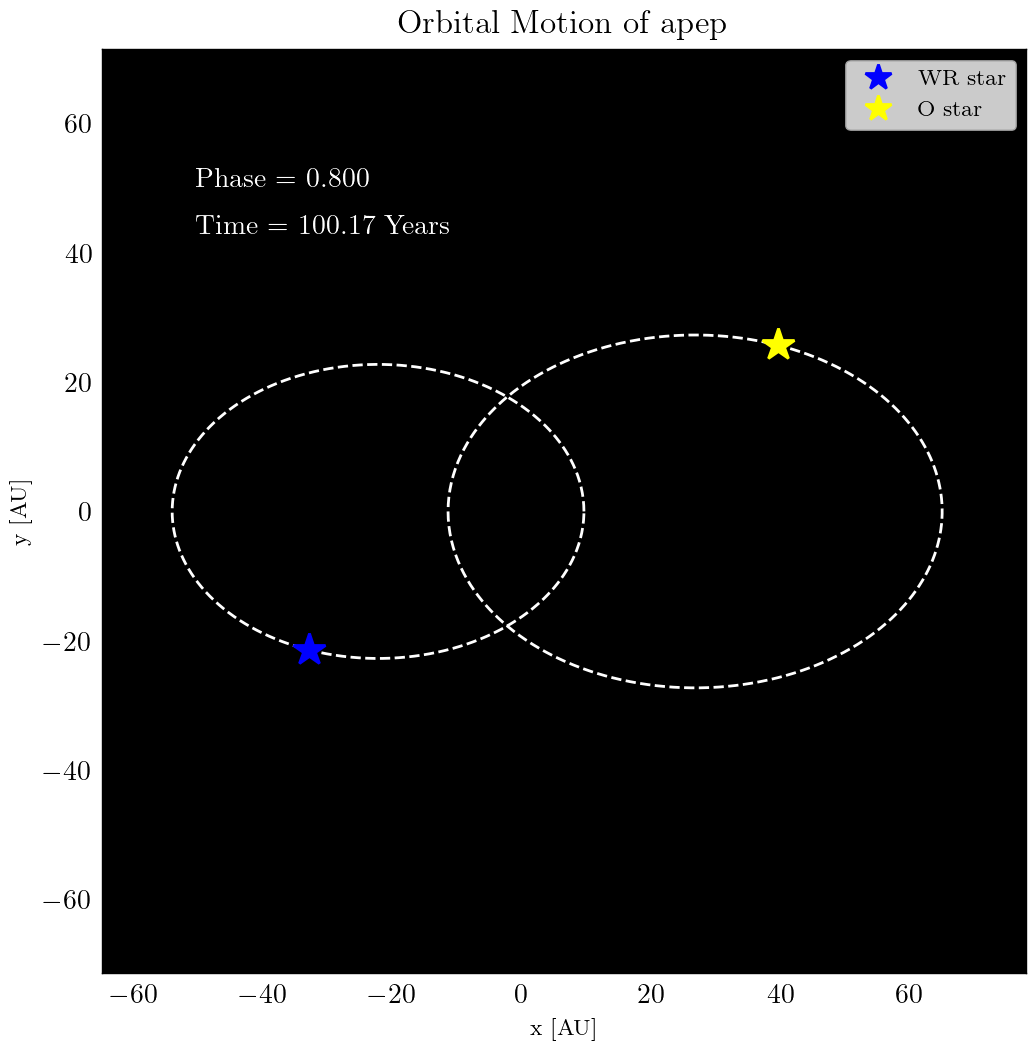
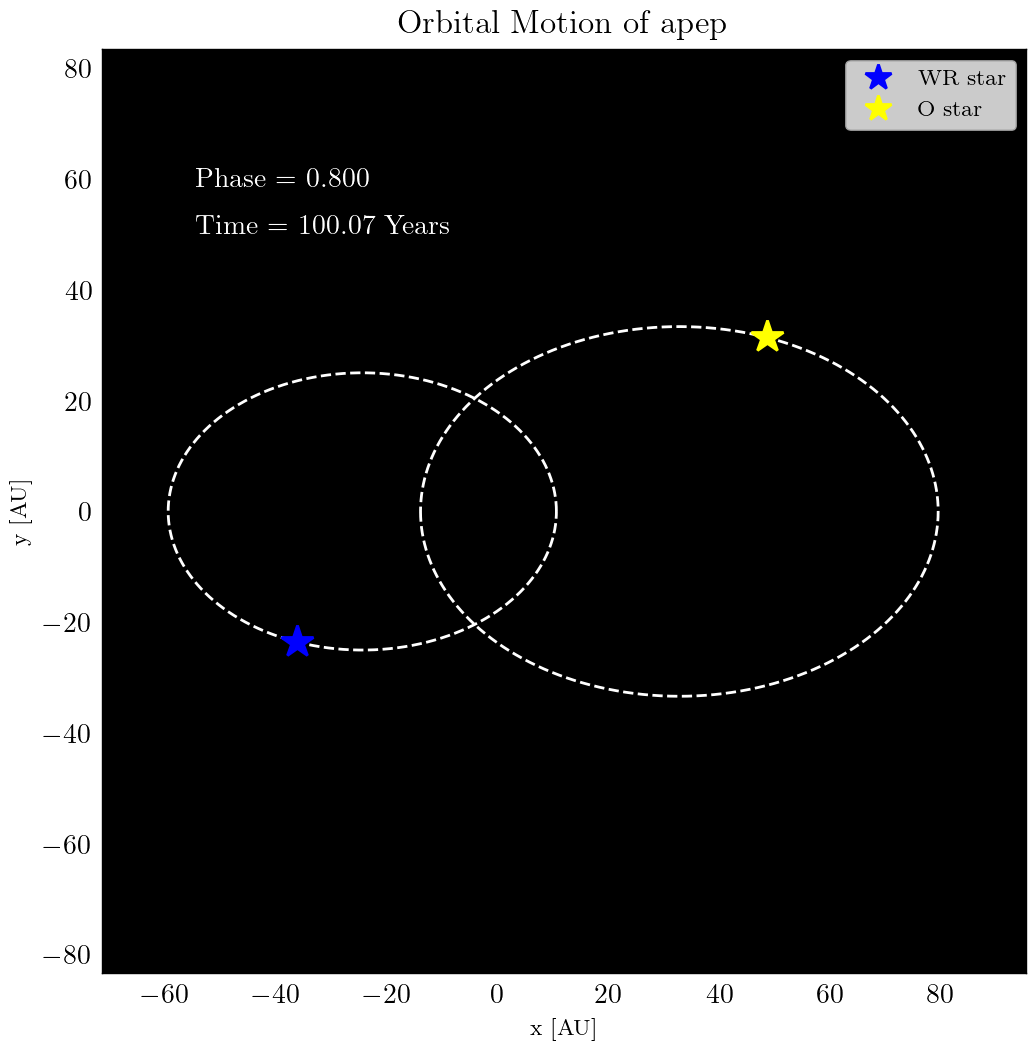
commit before branching

diff --git a/scripts/binary_system_calculations/binary_velocity.py b/scripts/binary_system_calculations/binary_velocity.py
@@ -1,3 +1,8 @@
+# This script calculates the velocities and positions of masses in a stable binary orbit at periastron, 
+# with respect to the centre of mass. 
+# Author: Thomas Jones
+
+
 import matplotlib
 import numpy as np
 import matplotlib.pyplot as plt
@@ -6,7 +11,7 @@ from mpl_toolkits.mplot3d import Axes3D
 from matplotlib.animation import PillowWriter
 from astropy import constants as const
 import astropy.units as u
-from scipy.integrate import odeint, solve_ivp
+from scipy.integrate import odeint
 import math
 import matplotlib
 import argparse
@@ -45,37 +50,50 @@ class BinarySystem:
     AU = const.au.cgs
 
     def __init__(self, e, P, m1, m2, name):
+        # Initialising the class with the input parameters
         self.Ecc = e
         self.Period = P
         self.m1 = m1
         self.m2 = m2
         self.name = name
 
+        # Calculating the periastron velocity and position
         periastron_v_x = self.get_periast_v_x(e, P, m1, m2)
         self.vy1_per, self.vy2_per, self.x1_per, self.x2_per = periastron_v_x
 
+        # Initialising the orbit solution
         init_cond={'m1':m1, 'm2':m2, 
                 'x1':self.x1_per.value, 'y1':0, 
                 'x2':self.x2_per.value, 'y2':0, 
                 'vx1':0, 'vy1':self.vy1_per.value, 
                 'vx2':0, 'vy2':self.vy2_per.value}
-
+        
+        # Solving for the orbit
         self.orb_sol = self.integrate_orbit(k=1, **init_cond)
-
-
 
     @staticmethod
     def get_periast_v_x(e, P, m1, m2):
         """
-        Computes the y component of the velocity of each star in a binary system at periastron 
-        and the distance from each star to the centre of mass of the system (cgs units). 
+        This method computes the y component of the velocity of each star in a binary system at periastron.
+        It also computes the distance from each star to the centre of mass of the system (cgs units).
 
-        - e : eccentricity of the binary system
-        - P : period of the system in days
-        - m1, m2 : masses of stars in units of M_sun
-
+        Parameters
+        ----------
+        e : float
+            Eccentricity of the binary system
+        P : float
+            Period of the system in days
+        m1, m2 : float
+            Masses of stars in units of M_sun
+        
+        Returns
+        -------
+        vy1_per, vy2_per, x1_per, x2_per : float
+            y component of the velocity of each star in a binary system at periastron and 
+            the x-distance from each star to the centre of mass of the system (cgs units).
+        
         """
-        G = const.G.cgs
+
         M_sun = const.M_sun.cgs
 
         Period = P * 24 * 60 * 60 * u.s.cgs # Converting period from days to seconds
@@ -102,14 +120,26 @@ class BinarySystem:
     ########################################################################################
     
     def integrate_orbit(self, k=1, **kwargs):
+        # """
+        # Solves for the periastron velocity and position using the get_periast_v_x() method
+        # and uses this as the initial conditions in order to integrates Newtons equations to
+        # calculate the x,y positions and velocities for each star at closely spaced discrete 
+        # points around the stars orbit. 
+
+        # - k : Number of periods to plot over. Default set to 1.
+        # - **kwargs : keyword arguments for the get_periast_v_x() method
+        # """
         """
         Solves for the periastron velocity and position using the get_periast_v_x() method
         and uses this as the initial conditions in order to integrates Newtons equations to
-        calculate the x,y positions and velocities for each star at closely spaced discrete 
-        points around the stars orbit. 
+        calculate the x,y positions and velocities for each star at closely spaced discrete
+        points around the stars orbit.
 
-        - k : Number of periods to plot over. Default set to 1.
-        - **kwargs : keyword arguments for the get_periast_v_x() method
+        Parameters
+        ----------
+        k : int
+            Number of periods to plot over. Default set to 1.
+        **kwargs : keyword arguments for the get_periast_v_x() method
         """
 
         G = const.G.cgs
@@ -134,7 +164,7 @@ class BinarySystem:
                     G.value*m1/r12**3 *(x1-x2),
                     G.value*m1/r12**3 *(y1-y2)]       
 
-        self.t_array = np.linspace(0, k*self.Period*24*60*60, 1000)
+        self.t_array = np.linspace(0, k*self.Period*24*60*60, 100000)
 
         sol = odeint(dSdt , y0=[x1_0, y1_0, x2_0, y2_0, vx1_0, vy1_0, vx2_0, vy2_0], t=self.t_array)
         sol = sol.T
@@ -162,7 +192,7 @@ class BinarySystem:
         # ax.set_facecolor('k')
         ax.set_xlabel("x (AU)", fontsize=8)
         ax.set_ylabel("y (AU)", fontsize=8)
-        ax.legend(loc="upper right")
+        # ax.legend(loc="upper right")
         plt.savefig(os.path.join(os.path.abspath(os.path.dirname(__file__)),f"orbit_{self.name}.png"), dpi=300)
 
         if make_animation==True:
@@ -177,9 +207,6 @@ class BinarySystem:
                 ylim = np.abs(y2).max()
             
             t_array_yr = self.t_array/(365*24*60*60)
-
-            # phase_array = t_array_yr/self.Period
-
 
 
             def animate(i):
@@ -293,14 +320,15 @@ def main():
     cmdargs = ArgumentInputs()
     binary = BinarySystem(m1=cmdargs.mass1, m2=cmdargs.mass2, P=cmdargs.period, e=cmdargs.eccentricity, name=cmdargs.name)
     
-    headers = ['Quantity', 'Star 1', 'Star 2']
+    headers = ['Parameter', 'Star 1', 'Star 2']
 
     masses = ['Mass [Msun]', f"{binary.m1}", f"{binary.m2}"]
     period = ['Period [days]', f"{binary.Period}",]
+    eccentricity = ['Eccentricity', f"{binary.Ecc}",]
     per_velocities = ['Periastron Vy [cm/s]', f"{binary.vy1_per.value:e}", f"{binary.vy2_per.value:e}"]
     per_positions = ['Periastron X [cm]', f"{binary.x1_per.value:e}", f"{binary.x2_per.value:e}"]
 
-    table_items = [masses, period, per_velocities, per_positions]
+    table_items = [masses,period,eccentricity,per_velocities,per_positions]
     
     if cmdargs.plot:
         if not cmdargs.ani:

diff --git a/scripts/xray-luminosity/wr140-hardxray-with-obs.py b/scripts/xray-luminosity/wr140-hardxray-with-obs.py
@@ -3,7 +3,8 @@ import matplotlib.pyplot as plt
 import os
 from palettable.mycarta import LinearL_5
 import pathlib
-plt.style.use('science')
+plt.style.use('default')
+plt.rcParams['font.family'] = 'sans-serif'
 home = str(pathlib.Path.home())
 import pandas as pd
 
@@ -18,7 +19,7 @@ def main():
             "color": "magenta",
             "dataxmin":-150,
             "dataxmax":135,
-            "lw": 1.5,
+            "lw": 1,
             "ls": "-"
             }
     hd_1 = {"path":os.path.join(home, "code/project/scripts/xray-luminosity/xray-tables/xray-lum-wr140-hydro-n256.txt"), 
@@ -36,7 +37,7 @@ def main():
             "color": "C6",
             "dataxmin":-50,
             "dataxmax":100,
-            "lw": 1.5,
+            "lw": 1,
                 "ls": "-"
             }
 
@@ -46,8 +47,8 @@ def main():
             "color": "C1",
             "dataxmin":-135,
             "dataxmax":140,
-            "lw": 1.5,
-                "ls": "-"
+            "lw": 1,
+            "ls": "-"
             }
 
     sim_list = [mhd_1, hd_1, hd_2, mhd_2]
@@ -157,7 +158,121 @@ def main():
 
 
 
+def main():
+    image_folder = os.path.join(home, "code/project/scripts/images/xray-lum")
+    fig, axes = plt.subplots(figsize=(5, 3.5))
+#     axes.set_prop_cycle('color', LinearL_5.mpl_colors)
 
+
+    mhd_1 = {"path":os.path.join(home, "code/project/scripts/scripts/xray-luminosity/xray-tables/xray-lum-wr140-mhd-n256.txt"), 
+            "start_time":-2.671e7,
+            "label": "mhd-1",
+            "color": "magenta",
+            "dataxmin":-150,
+            "dataxmax":150,
+            "lw": 1.3,
+            "ls": "-.",
+            "zorder": 3
+            }
+
+    mhd_2 = {"path":os.path.join(home, "code/project/scripts/scripts/xray-luminosity/xray-tables/xray-lum-wr140-mide-compton.txt"), 
+            "start_time":-1.25e7,
+            "label": "mhd-2",
+            "color": "lime",
+            "dataxmin":-130,
+            "dataxmax":160,
+            "lw": 1.3,
+            "ls": "-",
+            "zorder": 2
+            }
+
+    mhd_3 = {"path":os.path.join(home, "code/project/scripts/scripts/xray-luminosity/xray-tables/xray-lum-wr140-mide-control.txt"), 
+            "start_time":-1.25e7,
+            "label": "mhd-3",
+            "color": "blue",
+            "dataxmin":-130,
+            "dataxmax":160,
+            "lw": 1.3,
+            "ls": "--",
+            "zorder": 1
+            }
+        
+    
+
+    sim_list = [mhd_1, mhd_2, mhd_3]
+
+    for sim in sim_list:
+        plot = XrayLum(path=sim['path'], start_time=sim['start_time'], image_folder=image_folder, name=sim['label'])
+        plot.plot_band(xmin=-125, xmax=115, dataxmin=sim['dataxmin'], dataxmax=sim['dataxmax'], band="hard", ax=axes, label=sim['label'], color=sim['color'], lw=sim['lw'], ls=sim['ls'])
+        # Change plot zorder
+        axes.lines[-1].set_zorder(sim['zorder'])
+        # axes.legend()
+
+    axes.legend()
+    axes.set_ylim(0, None)
+
+    df_path = os.path.join(home, "code/project/scripts/scripts/xray-luminosity/wr140-phasefolded-unabslum.csv")
+    df = pd.read_csv(df_path)
+    t_rxte = df['t_rxte'].values
+    lum_rxte = df['l_rxte'].values
+ 
+    axes.plot(t_rxte, lum_rxte, 'ko', label='RXTE', markersize=1)
+    axes.legend(loc="upper left", fontsize=8)
+    axes.grid()
+    
+    # Turn off box in figure legend
+    # axes.get_legend().get_frame().set_linewidth(0.0)
+    fig.savefig(os.path.join(image_folder, f'xray-lum-withobs-papernew.png'), bbox_inches='tight', dpi=300)
+
+
+def main():
+    image_folder = os.path.join(home, "code/project/scripts/images/xray-lum")
+    fig, axes = plt.subplots(figsize=(5, 3.5))
+#     axes.set_prop_cycle('color', LinearL_5.mpl_colors)
+
+
+    mhd_2 = {"path":os.path.join(home, "code/project/scripts/scripts/xray-luminosity/xray-tables/xray-lum-wr140-mide-compton.txt"), 
+            "start_time":-1.25e7,
+            "label": r"$256\times256\times64$",
+            "color": "lime",
+            "dataxmin":-130,
+            "dataxmax":160,
+            "lw": 1.3,
+            "ls": "-",
+            "zorder": 2
+            }
+
+    mhd_3 = {"path":os.path.join(home, "code/project/scripts/scripts/xray-luminosity/xray-tables/xray-lum-wr140-mide-compton-128.txt"), 
+            "start_time":-1.25e7,
+            "label": r"$128\times128\times32$",
+            "color": "blue",
+            "dataxmin":-130,
+            "dataxmax":160,
+            "lw": 1.3,
+            "ls": "--",
+            "zorder": 1
+            }
+        
+    
+
+    sim_list = [mhd_2, mhd_3]
+
+    for sim in sim_list:
+        plot = XrayLum(path=sim['path'], start_time=sim['start_time'], image_folder=image_folder, name=sim['label'])
+        plot.plot_band(xmin=-125, xmax=115, ymin=0, ymax=3, dataxmin=sim['dataxmin'], dataxmax=sim['dataxmax'], band="hard", ax=axes, label=sim['label'], color=sim['color'], lw=sim['lw'], ls=sim['ls'])
+        # Change plot zorder
+        axes.lines[-1].set_zorder(sim['zorder'])
+        # axes.legend()
+
+    axes.legend()
+    axes.set_ylim(0, None)
+
+    axes.legend(loc="upper left", fontsize=8)
+    axes.grid()
+    
+    # Turn off box in figure legend
+    # axes.get_legend().get_frame().set_linewidth(0.0)
+    fig.savefig(os.path.join(image_folder, f'xray-lum-mhd2-resolution-study2.png'), bbox_inches='tight', dpi=300)
 
 
 if __name__ == "__main__":

diff --git a/scripts/pypion-plotting/poster_plots.py b/scripts/pypion-plotting/poster_plots.py
@@ -12,10 +12,11 @@ def main():
     fluidquantity = "Density"
     surface = "XY"
     tolerance = [-20,-13]
-    img_dir = os.path.join(home, "code/project/scripts/images/SimulationPlots/windtracer/")
+    img_dir = os.path.join(home, "code/project/scripts/testing/pypion-plotting/figures")
 
     mhd1 = {
         "path":"/mnt/massive-stars/data/thomas_simulations/wr140-sims/covertex_start/red_z_res/wr140-mhd-l7n256",
+        "basename": "wr140_mhd_cool_d3l7n256",
         "start_time":-2.671e7,
         "label": "mhd-1",
         "color": None,
@@ -25,6 +26,7 @@ def main():
 
     mhd2 = {
         "path":"/mnt/massive-stars/data/thomas_simulations/wr140-sims/compton_tests/compton_mhd_n256",
+        "basename": "wr140_mhd_compton_d3l7n256",
         "start_time":-1.239e7,
         "label": "mhd-2",
         "inset": True
@@ -35,7 +37,7 @@ def main():
 
     for sim in sim_list:
         fig, ax = plt.subplots(1, 1, figsize=(6, 6))
-        plot = Plot_Functions(sim['path'], img_dir, fluidquantity, tolerance, surface, period=7.992, start_time=sim['start_time'])
+        plot = Plot_Functions(sim['path'], sim['basename'], img_dir, fluidquantity, tolerance, surface, period=7.992, start_time=sim['start_time'])
         plot.plot_orbital_phase(ax=ax, log=True, colormap="viridis", phase_choice=1.001, zoom=1, plot_inset=sim['inset'])
 
         plt.savefig(os.path.join(img_dir, "density_{}_orbital_phase.png".format(sim['label'])), dpi=900, bbox_inches="tight", transparent=True)
